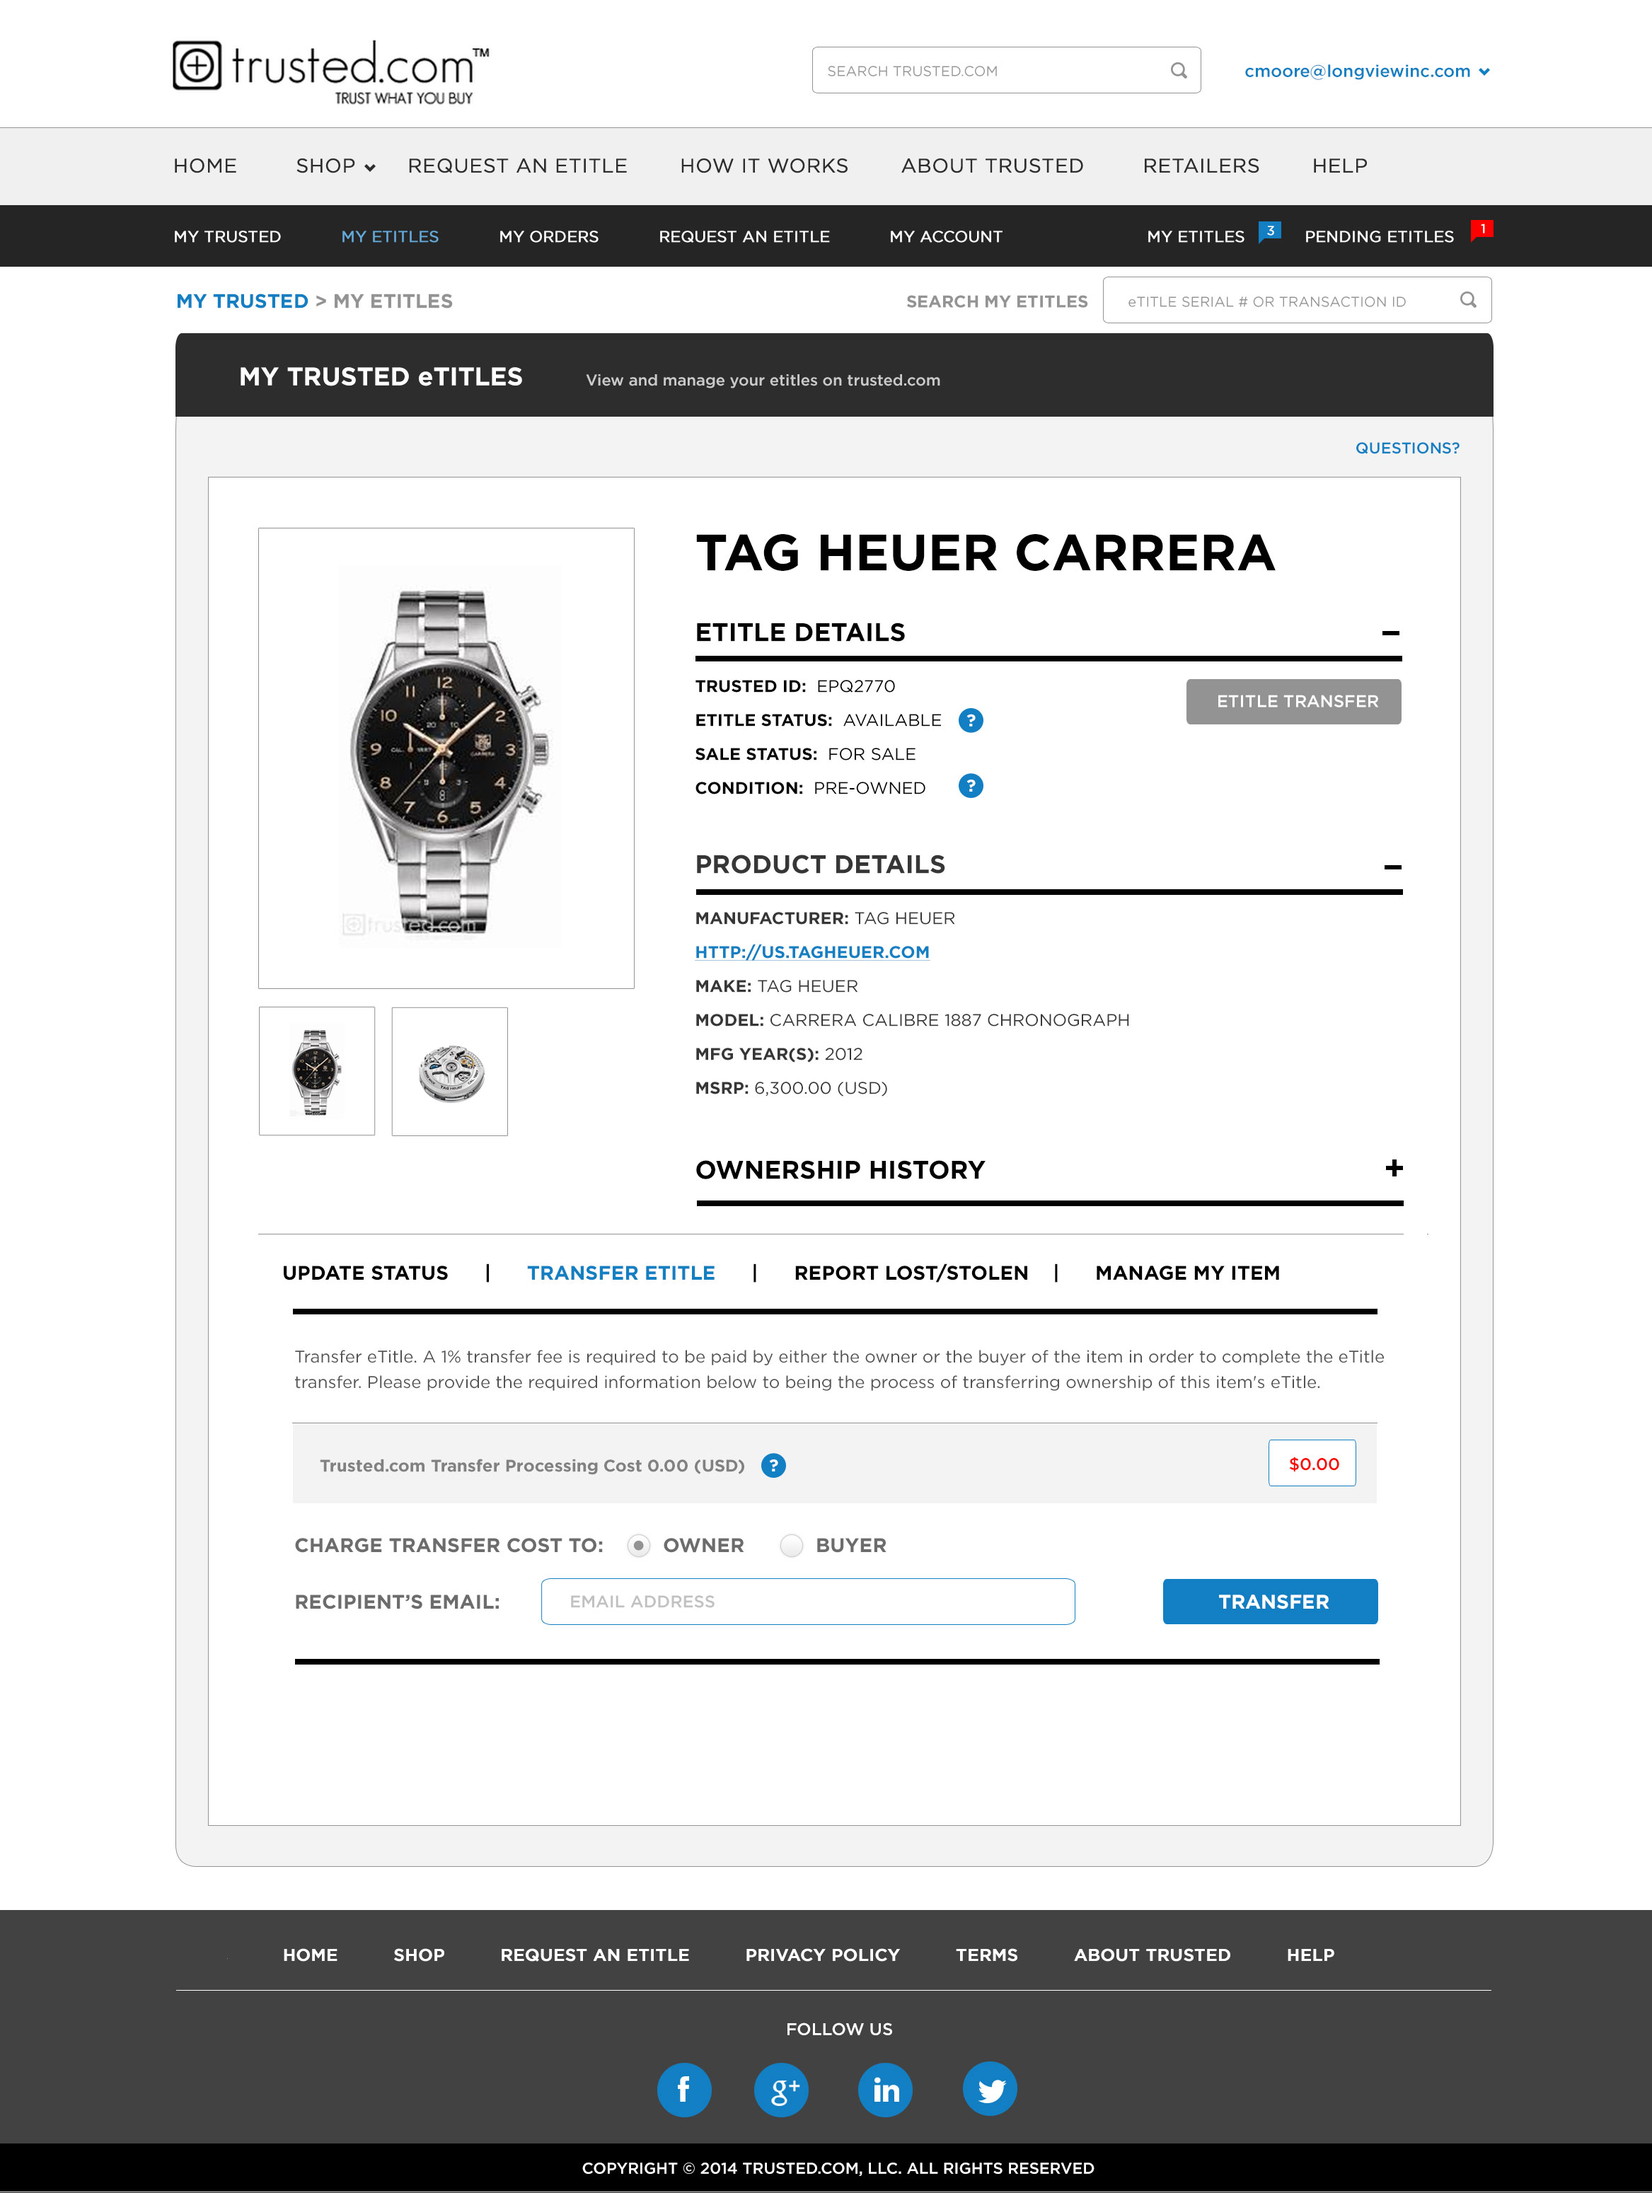
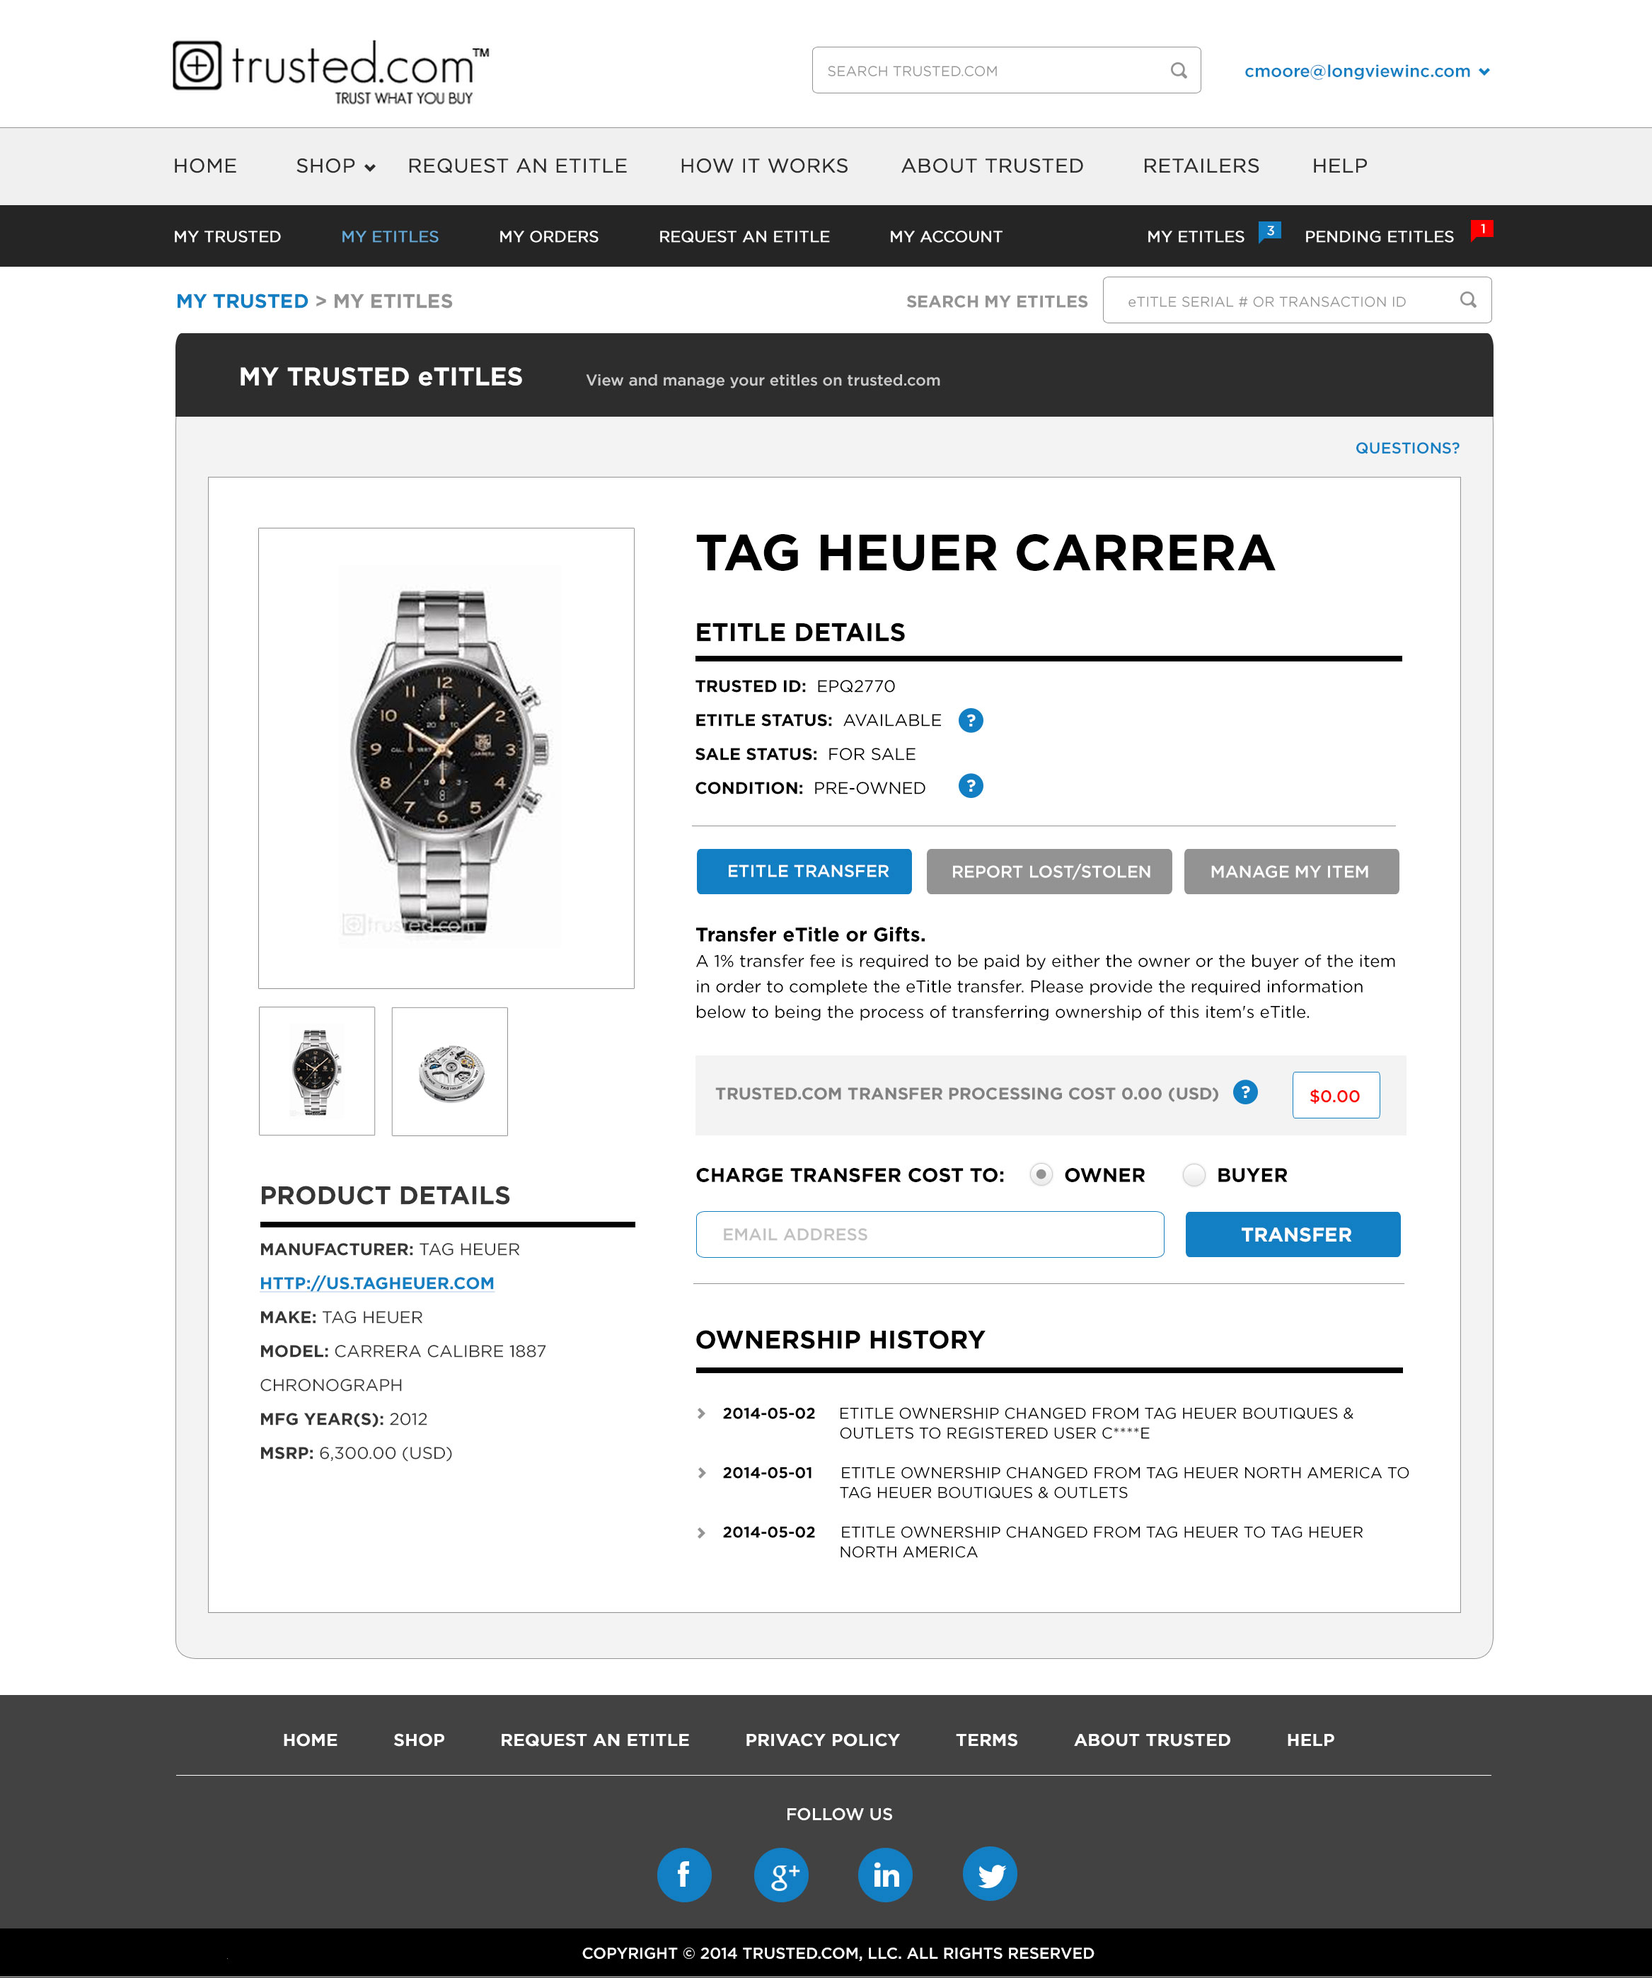
Updates

Changed region(s): [[0.0, 0.0, 1.0, 0.7779], [0.0, 0.8401, 1.0, 1.0]]

diff --git a/etitle-detail-rev.html b/etitle-detail-rev.html
@@ -16,14 +16,15 @@ img {
 </style>
 <body>
 
-<img src="images/trusted-etitle-main.jpg" alt="" width="2335" height="2796" usemap="#Map"/>
+<img src="images/trusted-etitle-alt.jpg" alt="" width="2335" height="3434" usemap="#Map"/>
 <map name="Map"><area shape="rect" coords="178,263,995,309" href="my-etitles.html">
   <area shape="rect" coords="619,195,720,223" href="account-profile.html">
   <area shape="rect" coords="463,197,595,225" href="request.html">
   <area shape="rect" coords="348,197,437,225" href="my-orders.html">
   <area shape="rect" coords="232,194,318,223" href="my-etitles.html"> 
   <area shape="rect" coords="118,194,207,224" href="index.html">
-  <area shape="rect" coords="489,596,654,636" href="etitle-transfer.html">
+  <area shape="rect" coords="833,644,998,684" href="etitle-transfer.html">
+  <area shape="rect" coords="352,1065,494,1089" href="etitle-transfer.html">
 </map>
 </body>
 </html>

diff --git a/etitle-accept.html b/etitle-accept.html
@@ -16,14 +16,14 @@ img {
 </style>
 <body>
 
-<img src="images/trusted-my-etitles-ux-accept.jpg" alt="" width="2335" height="3338" usemap="#Map"/>
+<img src="images/trusted-etitle-accept.jpg" alt="" width="2335" height="2796" usemap="#Map"/>
 <map name="Map">
   <area shape="rect" coords="619,152,720,180" href="account-profile.html">
   <area shape="rect" coords="113,149,202,179" href="index.html">
   <area shape="rect" coords="232,150,318,179" href="my-etitles.html">
   <area shape="rect" coords="346,152,435,180" href="my-orders.html"> 
   <area shape="rect" coords="458,152,590,180" href="request.html">
-  <area shape="rect" coords="825,663,987,705" href="etitle-detail.html">
+  <area shape="rect" coords="491,573,653,615" href="etitle-detail.html">
 </map>
 </body>
 </html>

diff --git a/index.html b/index.html
@@ -22,7 +22,7 @@ img {
   <area shape="rect" coords="228,175,314,204" href="my-etitles.html">
   <area shape="rect" coords="334,175,423,203" href="my-orders.html"> 
   <area shape="rect" coords="434,177,550,203" href="request.html">
-  <area shape="rect" coords="171,233,988,279" href="my-etitles.html">
+  <area shape="rect" coords="171,233,988,279" href="etitle-detail-rev.html">
   <area shape="rect" coords="856,667,1012,701" href="etitle-accept.html">
   <area shape="rect" coords="780,306,1064,345" href="search.html">
   <area shape="rect" coords="858,473,1013,506" href="etitle-detail.html">
